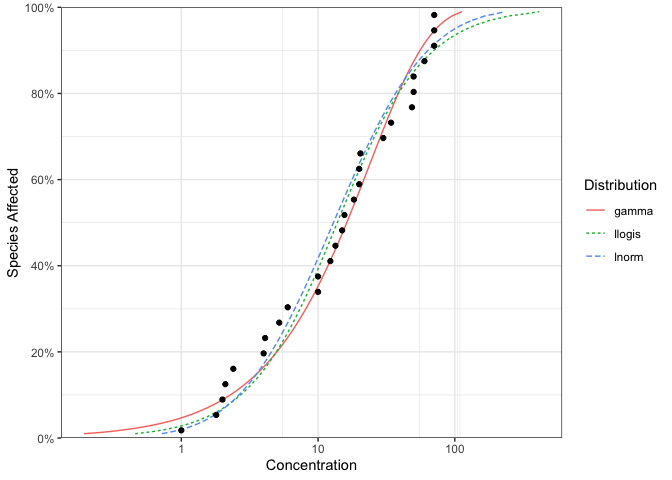
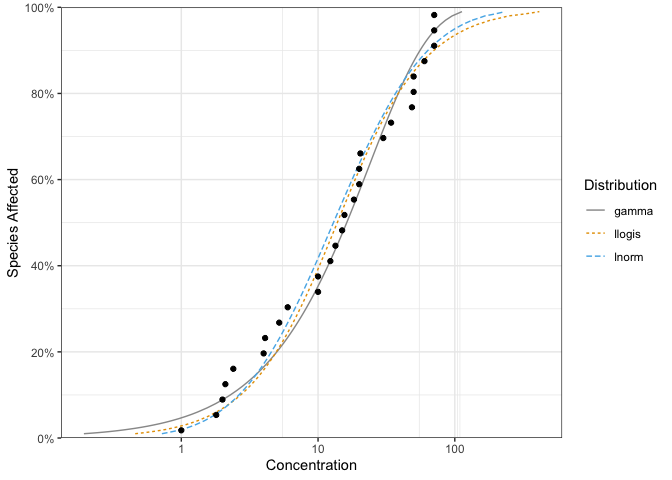
- Added `scale_colour_ssd()` 8 color-blind scale. - Added `ssd_pal()` 8 color-blind palette.
Issue #181

diff --git a/README.md b/README.md
@@ -21,10 +21,10 @@ Distributions (SSD).
 SSDs are cumulative probability distributions which are fitted to
 toxicity concentrations for different species as described by Posthuma
 et al. (2001). The ssdtools package uses Maximum Likelihood to fit
-distributions such as the gamma, log-normal, log-logistic, log-Gumbel
-and Weibull to censored and/or weighted data. Multiple distributions can
-be averaged using AICc. Confidence intervals on hazard concentrations
-and proportions are produced by parametric bootstrapping.
+distributions such as the gamma, log-logistic, log-normal and Weibull to
+censored and/or weighted data. Multiple distributions can be averaged
+using Akaike Information Criteria. Confidence intervals on hazard
+concentrations and proportions are produced by parametric bootstrapping.
 
 ## Installation
 
@@ -75,8 +75,11 @@ and can be quickly plotted using the `ggplot2` generic `autoplot`
 
 ``` r
 library(ggplot2)
+
 theme_set(theme_bw())
-autoplot(boron_dists)
+
+autoplot(boron_dists) + 
+  scale_colour_ssd()
 ```
 
 ![](man/figures/README-unnamed-chunk-5-1.png)<!-- -->
@@ -122,7 +125,10 @@ and plotted together with the original data using `ssd_plot`.
 ssd_plot(boron_data, boron_pred,
   shape = "Group", color = "Group", label = "Species",
   xlab = "Concentration (mg/L)", ribbon = TRUE
-) + expand_limits(x = 3000)
+) + 
+  expand_limits(x = 3000) +
+  scale_colour_ssd()
+#> Warning: Ignoring unknown aesthetics: shape
 ```
 
 ![](man/figures/README-unnamed-chunk-10-1.png)<!-- -->
